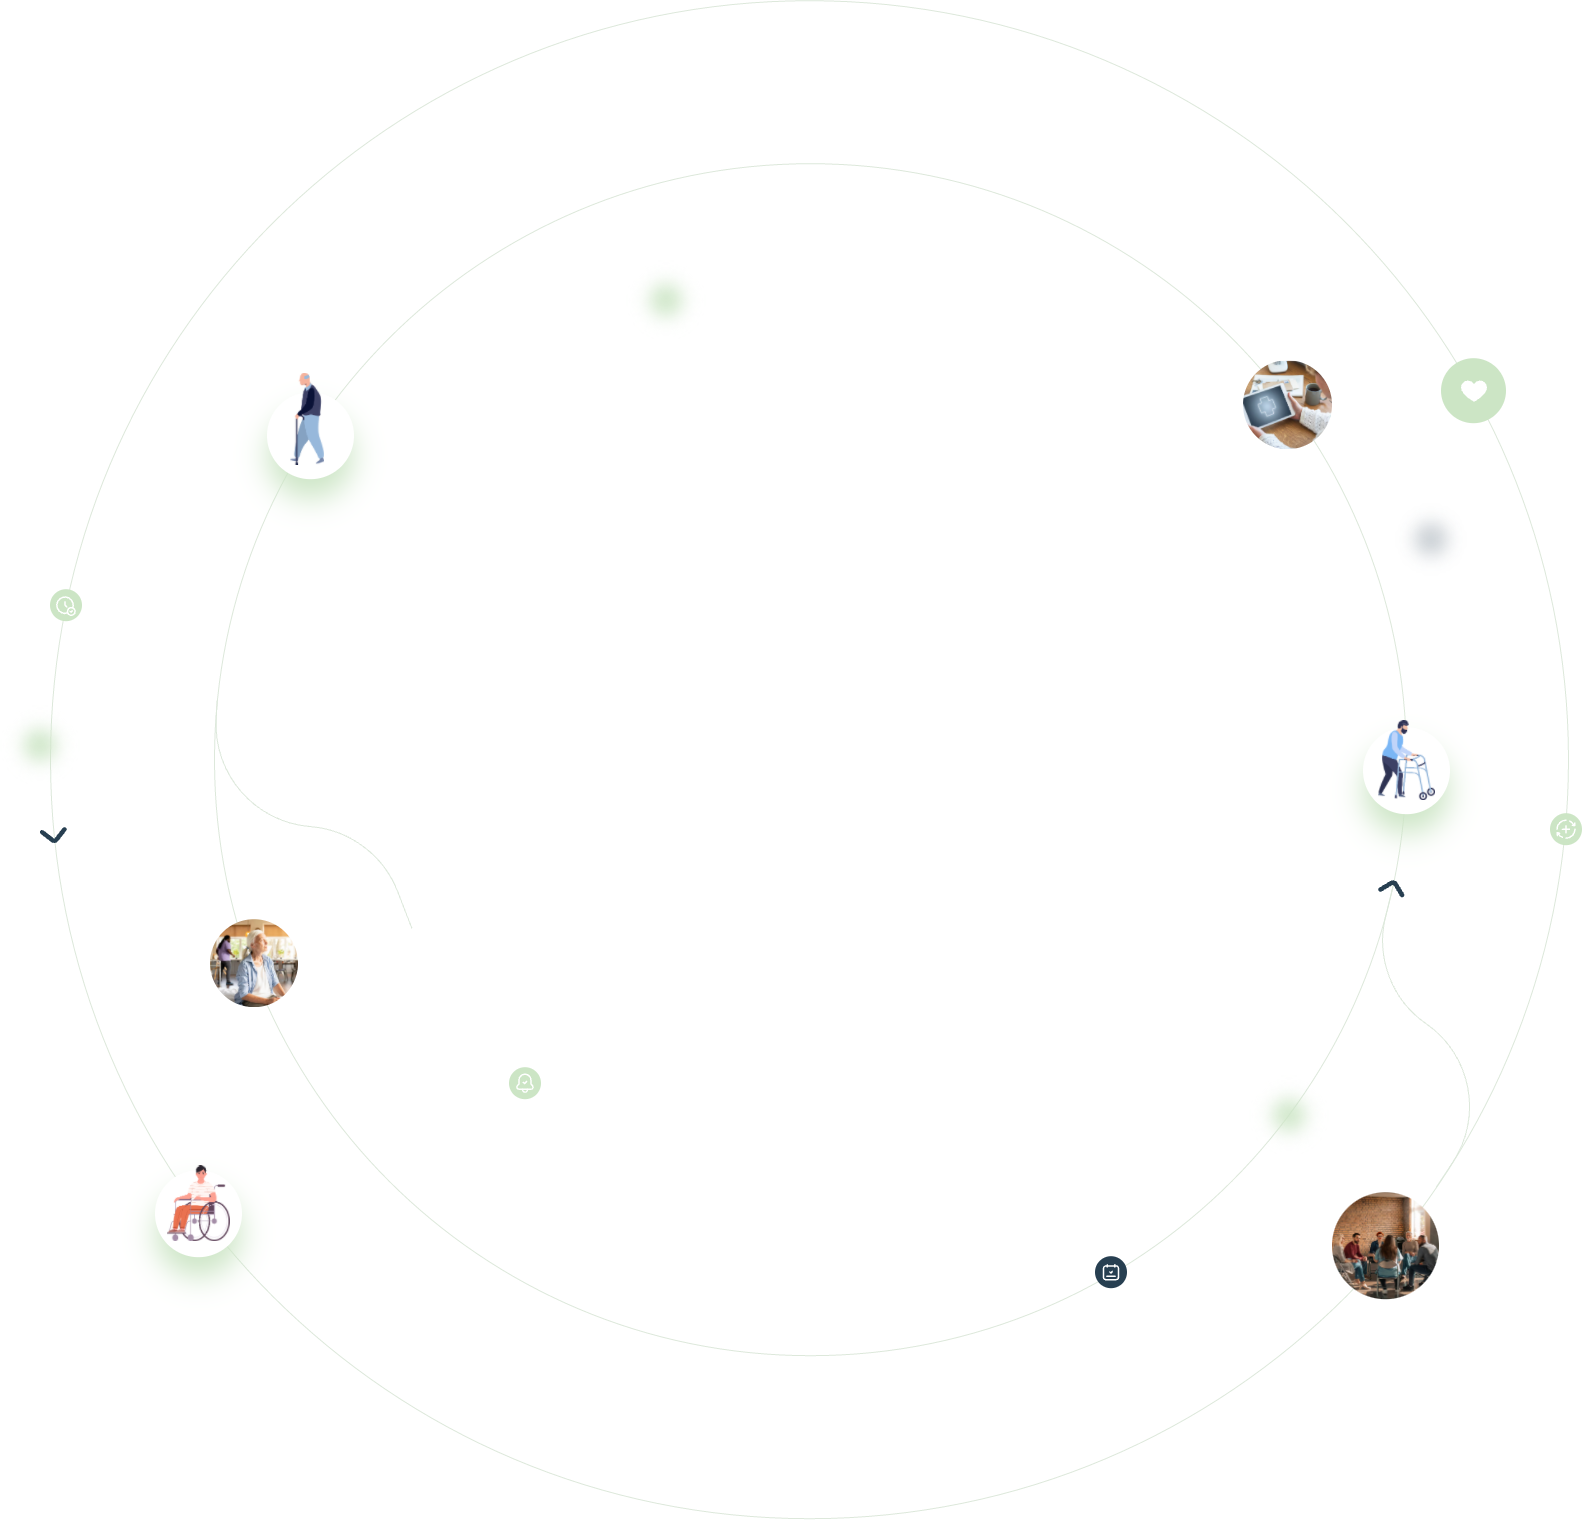
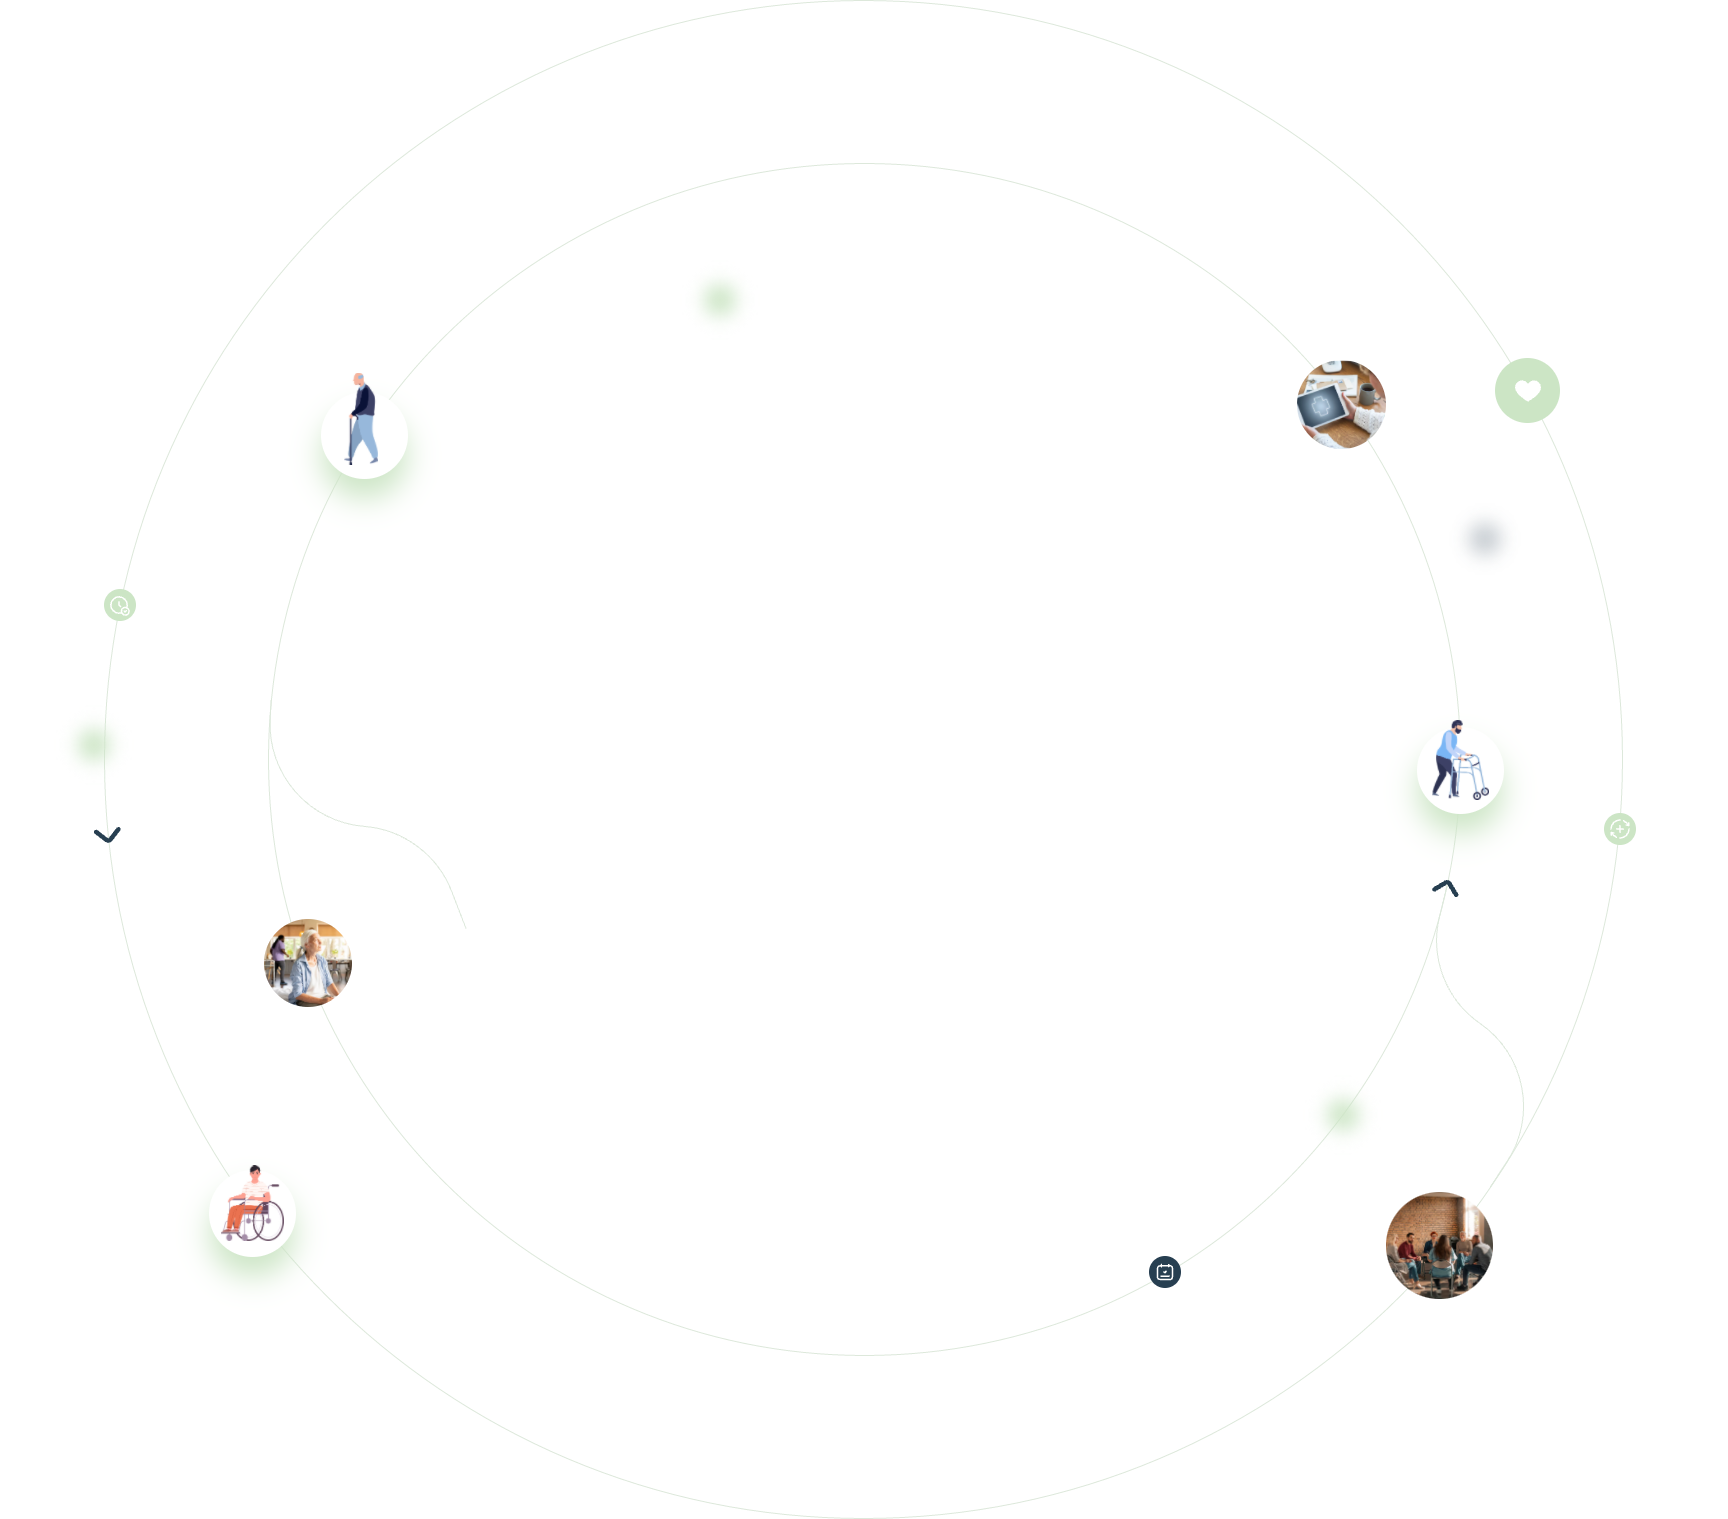
Danny

diff --git a/danny/css/style.css b/danny/css/style.css
@@ -2903,11 +2903,22 @@ body, html {
 #home-hero {
   background-image: url(../img/Hero-bg.webp);
   background-position: center;
+  background-size: cover;
   background-repeat: no-repeat;
   padding-top: 250px;
   padding-bottom: 250px;
   margin-top: -230px;
   margin-bottom: -150px;
+}
+@media (min-resolution: 2dppx) {
+  #home-hero {
+    background-image: url(../img/Hero-bg-x2.webp);
+  }
+}
+@media (min-resolution: 3dppx) {
+  #home-hero {
+    background-image: url(../img/Hero-bg-x3.webp);
+  }
 }
 
 .hero-title-wrap {
